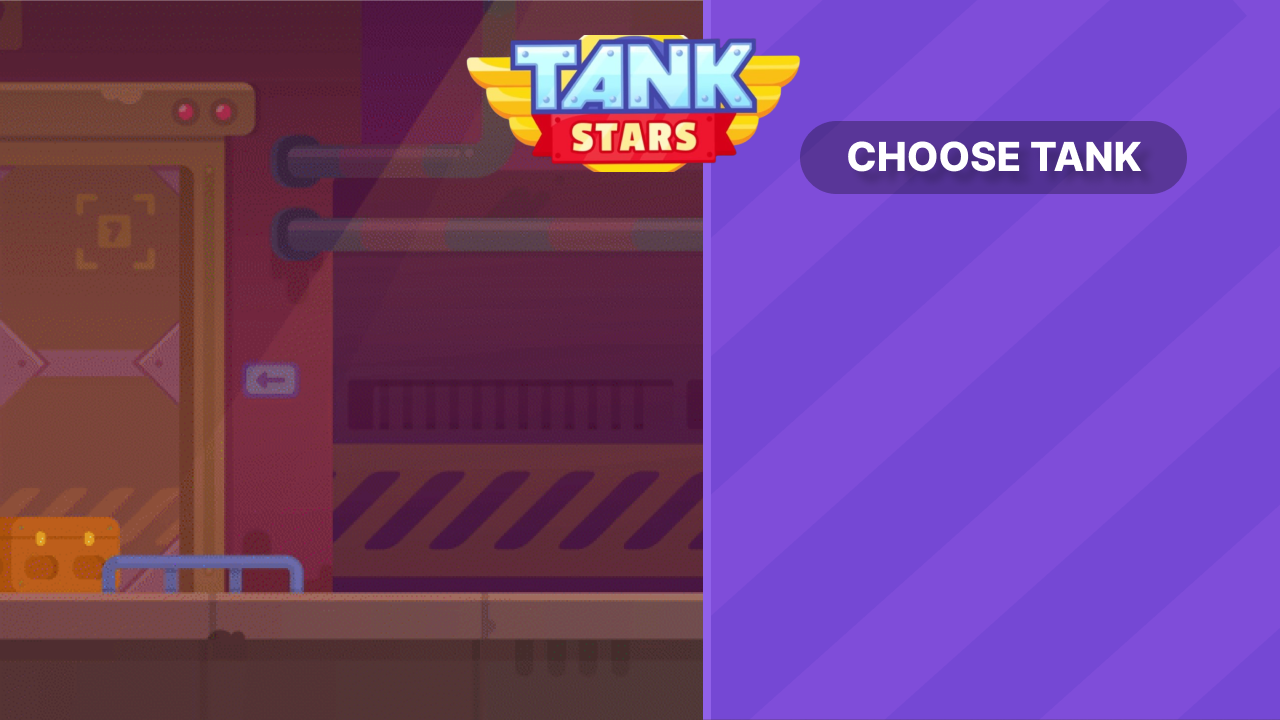
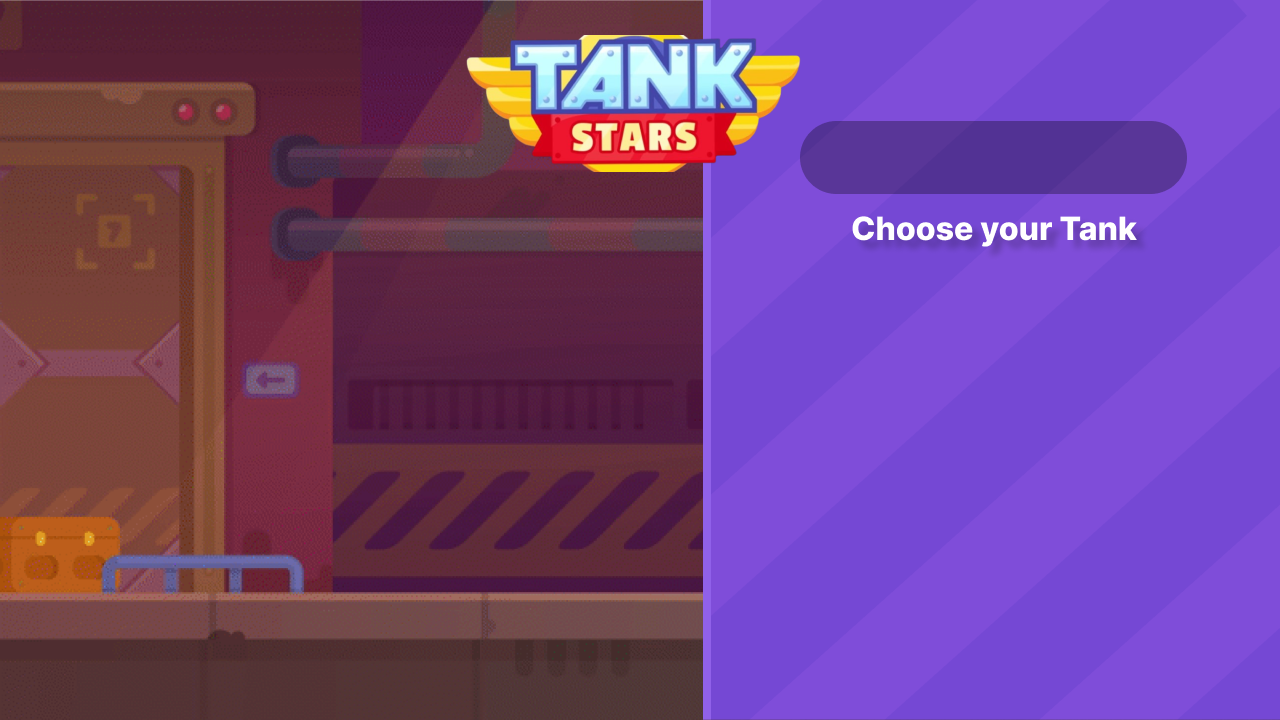
edited selectionMenu and something else that I forgot

Changed region(s): [[0.6562, 0.1833, 0.9062, 0.2444], [0.6562, 0.3056, 0.9062, 0.3667]]

diff --git a/core/src/com/dragonjeet/tankstars/menu/SelectionMenu.java b/core/src/com/dragonjeet/tankstars/menu/SelectionMenu.java
@@ -19,7 +19,8 @@ import com.dragonjeet.tankstars.tank.Tank2;
 import com.dragonjeet.tankstars.tank.Tank3;
 
 public class SelectionMenu extends Menu {
-    private int player = 1;        // player=1 => Player-1's turn, player=0 => Player-2's turn; player ^= 1 after every iteration
+    private int player;        // player=1 => Player-1's turn, player=0 => Player-2's turn; player ^= 1 after every iteration
+    private TextureRegion playerText;
     private TextureRegion selectedTankImage;
     private TextureRegion selectedTankName;
     private Table table;
@@ -29,9 +30,12 @@ public class SelectionMenu extends Menu {
 
     public SelectionMenu(final TankStars game) {
         super(game);
-        setTable();
 
         background = new Texture(Gdx.files.internal("backgrounds/selectionMenu.png"));
+        player = 1;
+        playerText = new TextureRegion(new Texture(Gdx.files.internal("text/player-1.png")));
+
+        setTable();
         selectTank(1);  // default selected tank
 
         setActionButton();
@@ -55,6 +59,12 @@ public class SelectionMenu extends Menu {
         game.batch.begin();
         game.batch.draw(background, 0, 0, Gdx.graphics.getWidth(), Gdx.graphics.getHeight());
         drawSelectedTank(game.batch, selectedTankImage, selectedTankName);
+
+        game.batch.draw(
+            playerText, 1370, 790, 0, 0,
+            playerText.getRegionWidth(), playerText.getRegionHeight(), 1.4f, 1.4f, 0
+        );
+
         game.batch.end();
         stage.act(d);
         stage.draw();
@@ -126,8 +136,10 @@ public class SelectionMenu extends Menu {
             public void changed(ChangeEvent event, Actor actor) {
                 if (player == 1) {
                     player ^= 1;
+                    playerText = new TextureRegion(new Texture(Gdx.files.internal("text/player-2.png")));
                     actionButton.getStyle().imageUp = new TextureRegionDrawable(new TextureRegion(new Texture(Gdx.files.internal("buttons/up/play.png"))));
                     actionButton.getStyle().imageDown = new TextureRegionDrawable(new TextureRegion(new Texture(Gdx.files.internal("buttons/down/play.png"))));
+                    selectTank(1);
                     setTankButtons();
                 } else {
                     BattleScreen battleScreen = new BattleScreen(game);

diff --git a/core/src/com/dragonjeet/tankstars/tank/Tank.java b/core/src/com/dragonjeet/tankstars/tank/Tank.java
@@ -23,8 +23,10 @@ public abstract class Tank {
 
     public abstract void draw(SpriteBatch batch) throws TankOutOfScreenException;
 
-
     public Tank(int x, Ground ground, boolean flipped) {
+        // for the time being, the only diff between tanks is their image
+        // this will be extended to inheritance into 3 children, each of which should have
+        // different images, moving speeds, healths, fuelTanks, and attackDamages
         this.x = x;
         this.ground = ground;
         this.flipped = flipped;
@@ -38,33 +40,25 @@ public abstract class Tank {
 
     public int getWidth() {
         if (body == null) return image.getRegionWidth();
-        return body.getRegionWidth()/scalingFactor;
+        return body.getRegionWidth() / scalingFactor;
     }
 
     public int getTurretHeight() {
-        return turret.getRegionHeight()/scalingFactor;
+        return turret.getRegionHeight() / scalingFactor;
     }
 
     public int getTurretWidth() {
-        return turret.getRegionWidth()/scalingFactor;
-    }
-
-    public void setImage(TextureRegion image) {
-        // for the time being, the only diff between tanks is their image
-        // this will be extended to inheritance into 3 children, each of which should have
-        // different images, moving speeds, healths, fuelTanks, and attackDamages
-        this.image = image;
-        this.image.flip(this.flipped, false);
+        return turret.getRegionWidth() / scalingFactor;
     }
 
     public void setBody(TextureRegion body) {
         this.body = body;
-        this.body.flip(this.flipped, false);
+        this.body.flip(false, this.flipped);
     }
 
     public void setTurret(TextureRegion turret) {
         this.turret = turret;
-        this.turret.flip(this.flipped, false);
+        this.turret.flip(false, this.flipped);
     }
 
     public void setX(int x) {

diff --git a/core/src/com/dragonjeet/tankstars/tank/Tank1.java b/core/src/com/dragonjeet/tankstars/tank/Tank1.java
@@ -21,7 +21,7 @@ public class Tank1 extends Tank {
 
     @Override
     public void draw(SpriteBatch batch) throws TankOutOfScreenException {
-        batch.draw(turret, x+getWidth()/2f, getY()+getHeight()-getTurretHeight(), 0, 0, getTurretWidth(), getTurretHeight(), 1, 1, getAngle()+attackAngle);
+        batch.draw(turret, x+getWidth()/2f + 10*(flipped ? -2 : 1), getY()+getHeight()-getTurretHeight(), 5*(flipped ? 1 : -1), 0, getTurretWidth(), getTurretHeight(), 1, 1, getAngle()+attackAngle);
         batch.draw(body, x, getY(), getWidth()/2f, getHeight()/2f, getWidth(), getHeight(), 1, 1, getAngle());
     }
 }
